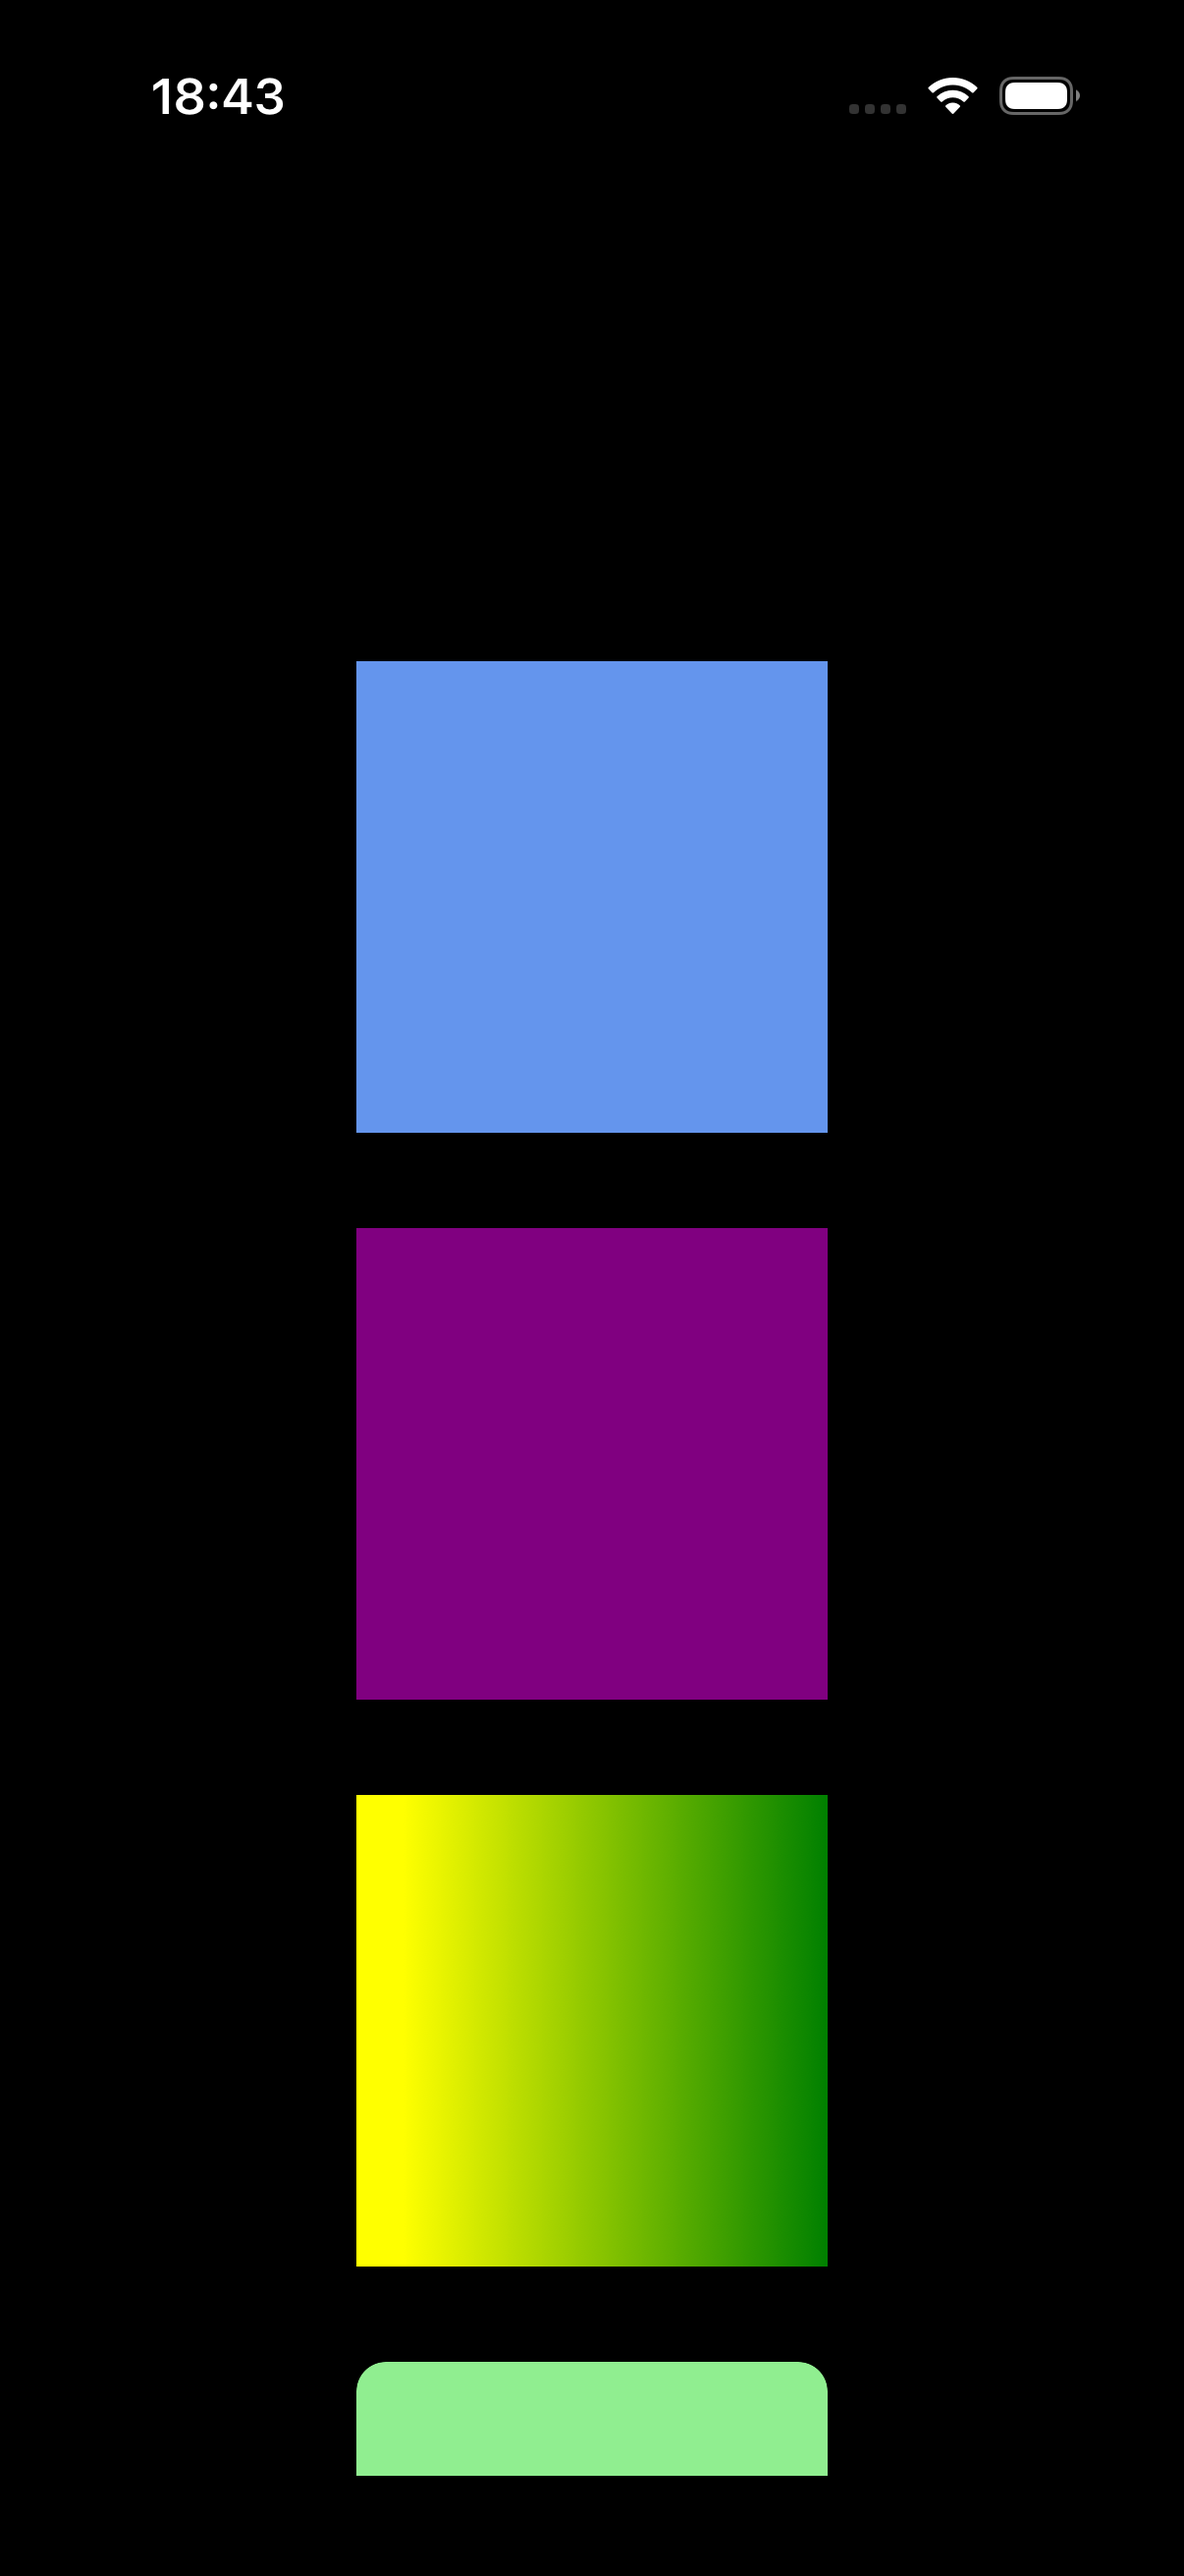
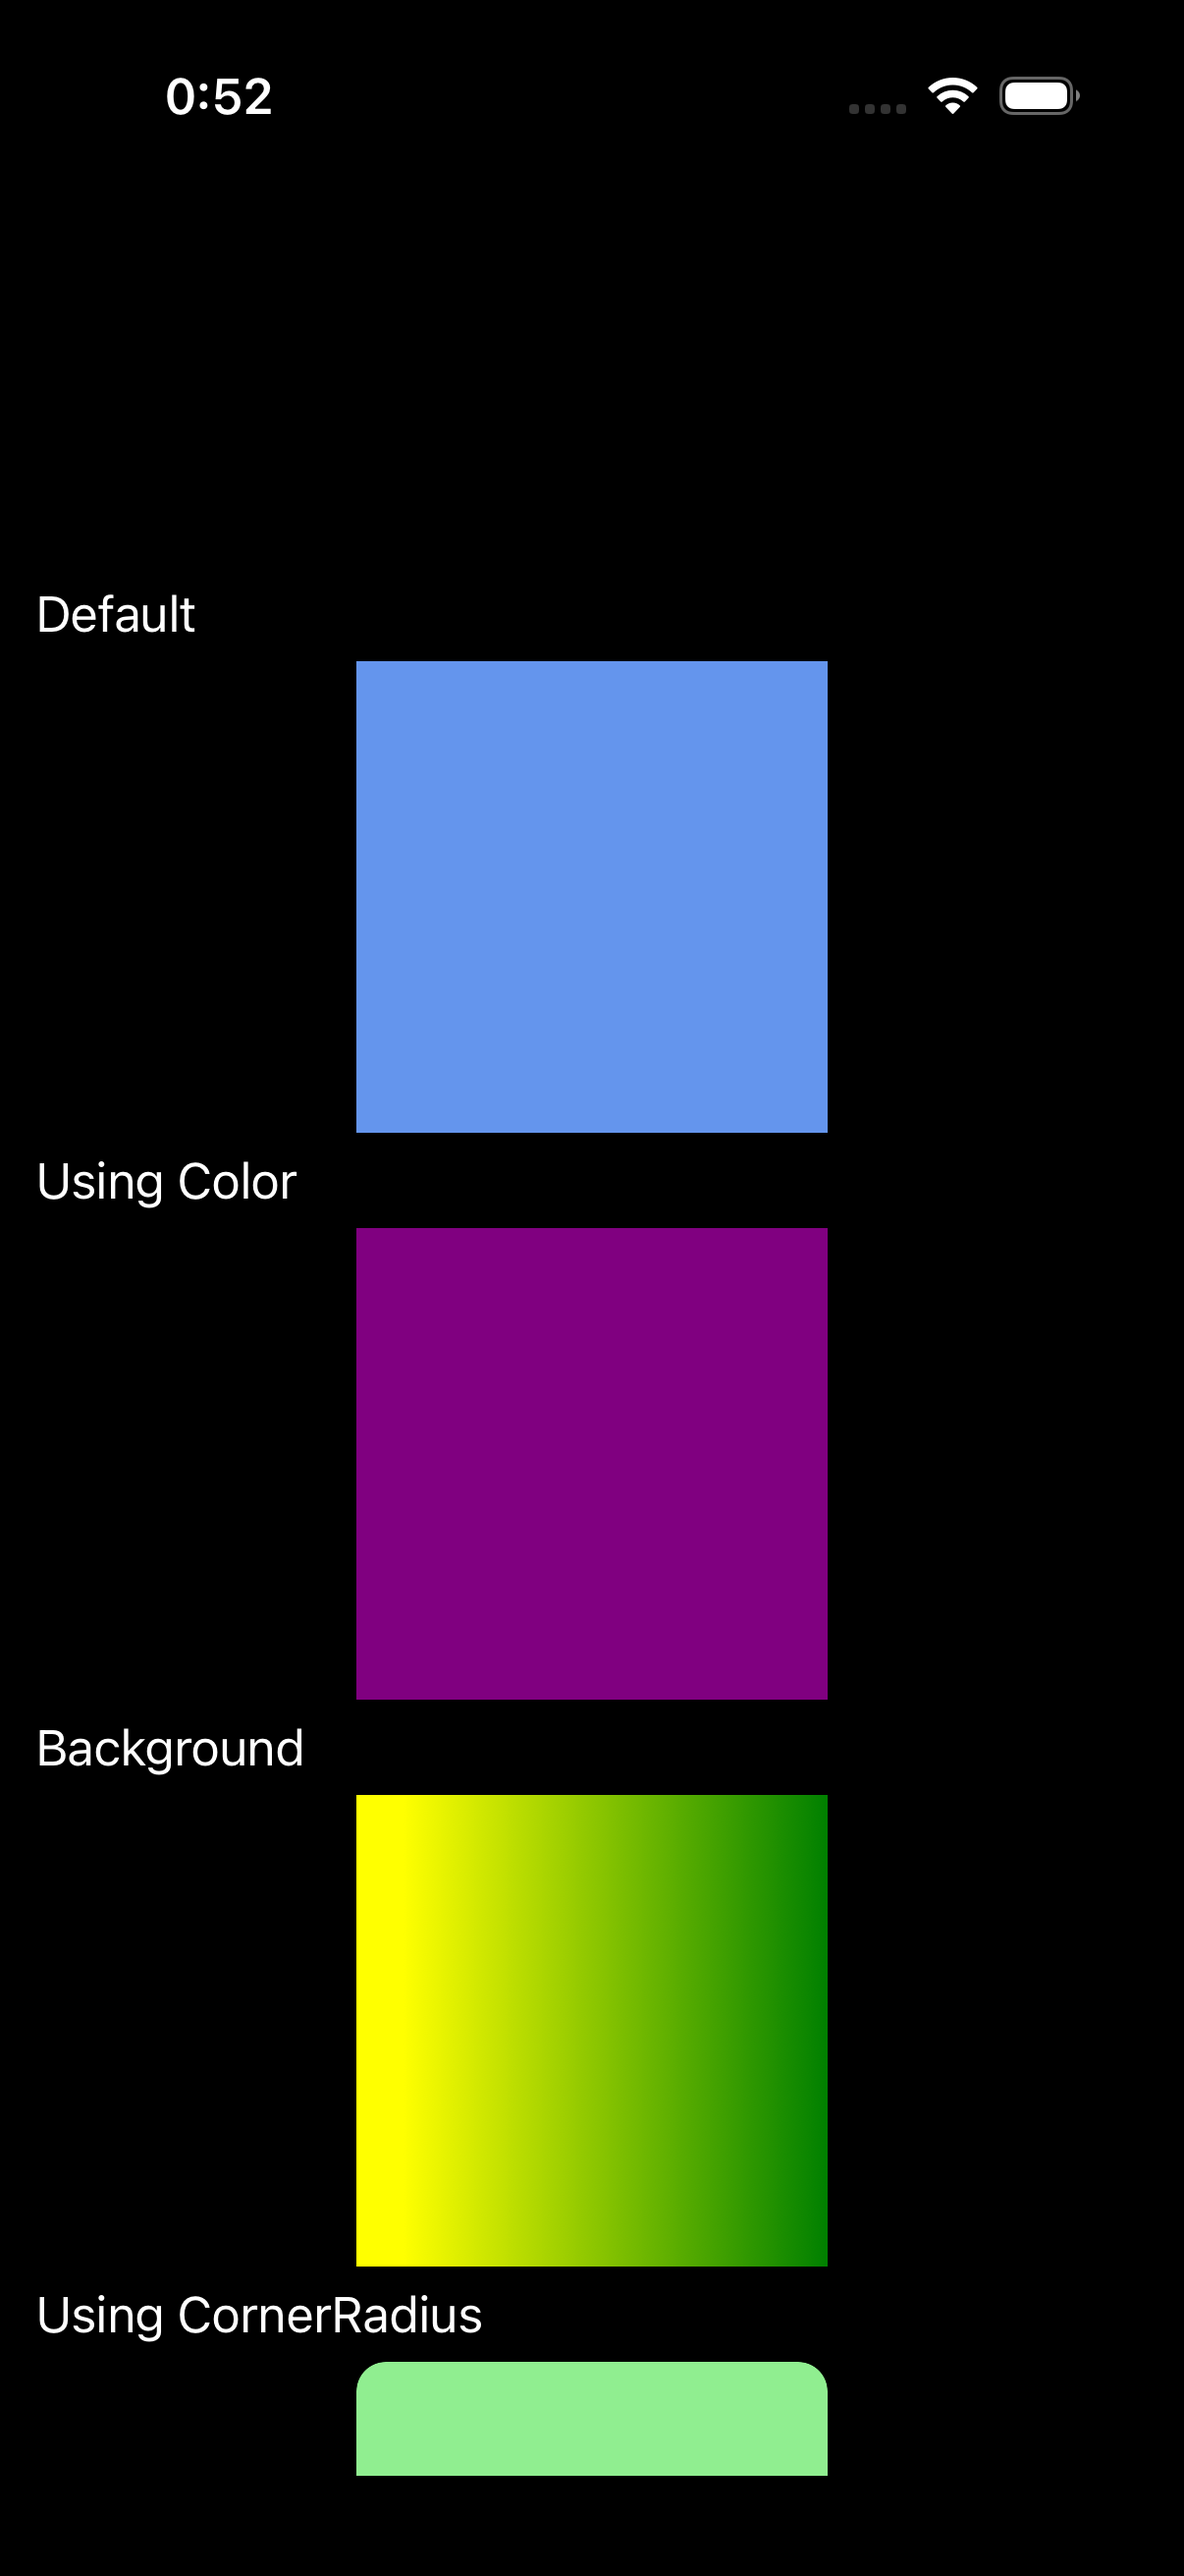
docs(parity): box_view labels render on dark (cascade) -> minor
example 19/172 (box_view): no code change — the dark-text cascade fixed the
previously-missing white section labels (Default/Using Color/Background). All 4
BoxView samples render matching MAUI both themes: Default blue, Using-Color purple,
Background yellow->green gradient, CornerRadius green-rounded. Residual: minor
vertical rhythm + the gradient Background box renders full-height in C++ vs a thin
collapsed line in the C# demo (a sizing/demo difference on that one box). Tracker:
box_view dark diff->minor (18 minor).

diff --git a/port/cpp/docs/comparison/README.md b/port/cpp/docs/comparison/README.md
@@ -2,7 +2,7 @@
 
 Theme-matched iOS comparison: each page rendered by **real .NET MAUI** vs the **C++ port**, on the same iPhone 17 simulator, compared **light-vs-light** and **dark-vs-dark**. Both stacks render native-default controls + the system font (the C# app's `dotnet new maui` default `Styles.xaml` + OpenSans are stripped; appearance forced via `MAUI_THEME` / `MAUI_APPEARANCE`). Goal: pixel-perfect parity, fixed example-by-example.
 
-**Progress: 0 / 172 🟢 matched** · 17 🟡 minor · 53 🔴 diff · 102 ⬜ pending
+**Progress: 0 / 172 🟢 matched** · 18 🟡 minor · 52 🔴 diff · 102 ⬜ pending
 
 Status legend: 🟢 pixel-match (both themes) · 🟡 minor diff · 🔴 notable diff to fix · ⬜ not yet reviewed. Per-theme verdicts in `parity_status.json`.
 
@@ -30,7 +30,7 @@ Rows are in **fix order** (top → bottom): foundational single controls first (
 | 16 | Indicator | 🟡<br>L:minor<br>D:minor | ![](csharp_ios_light/indicator.png) | ![](cpp_ios_light/indicator.png) | ![](csharp_ios_dark/indicator.png) | ![](cpp_ios_dark/indicator.png) |
 | 17 | Image | 🔴<br>L:diff<br>D:diff | ![](csharp_ios_light/image.png) | ![](cpp_ios_light/image.png) | ![](csharp_ios_dark/image.png) | ![](cpp_ios_dark/image.png) |
 | 18 | Image Button | 🟡<br>L:minor<br>D:minor | ![](csharp_ios_light/image_button.png) | ![](cpp_ios_light/image_button.png) | ![](csharp_ios_dark/image_button.png) | ![](cpp_ios_dark/image_button.png) |
-| 19 | Box View | 🔴<br>L:minor<br>D:diff | ![](csharp_ios_light/box_view.png) | ![](cpp_ios_light/box_view.png) | ![](csharp_ios_dark/box_view.png) | ![](cpp_ios_dark/box_view.png) |
+| 19 | Box View | 🟡<br>L:minor<br>D:minor | ![](csharp_ios_light/box_view.png) | ![](cpp_ios_light/box_view.png) | ![](csharp_ios_dark/box_view.png) | ![](cpp_ios_dark/box_view.png) |
 | 20 | Content View | 🔴<br>L:diff<br>D:blank | ![](csharp_ios_light/content_view.png) | ![](cpp_ios_light/content_view.png) | ![](csharp_ios_dark/content_view.png) | ![](cpp_ios_dark/content_view.png) |
 | 21 | Containers | 🔴<br>L:diff<br>D:diff | ![](csharp_ios_light/containers.png) | ![](cpp_ios_light/containers.png) | ![](csharp_ios_dark/containers.png) | ![](cpp_ios_dark/containers.png) |
 | 22 | Control stack | 🔴<br>L:diff<br>D:diff | ![](csharp_ios_light/controls_stack.png) | ![](cpp_ios_light/controls_stack.png) | ![](csharp_ios_dark/controls_stack.png) | ![](cpp_ios_dark/controls_stack.png) |
